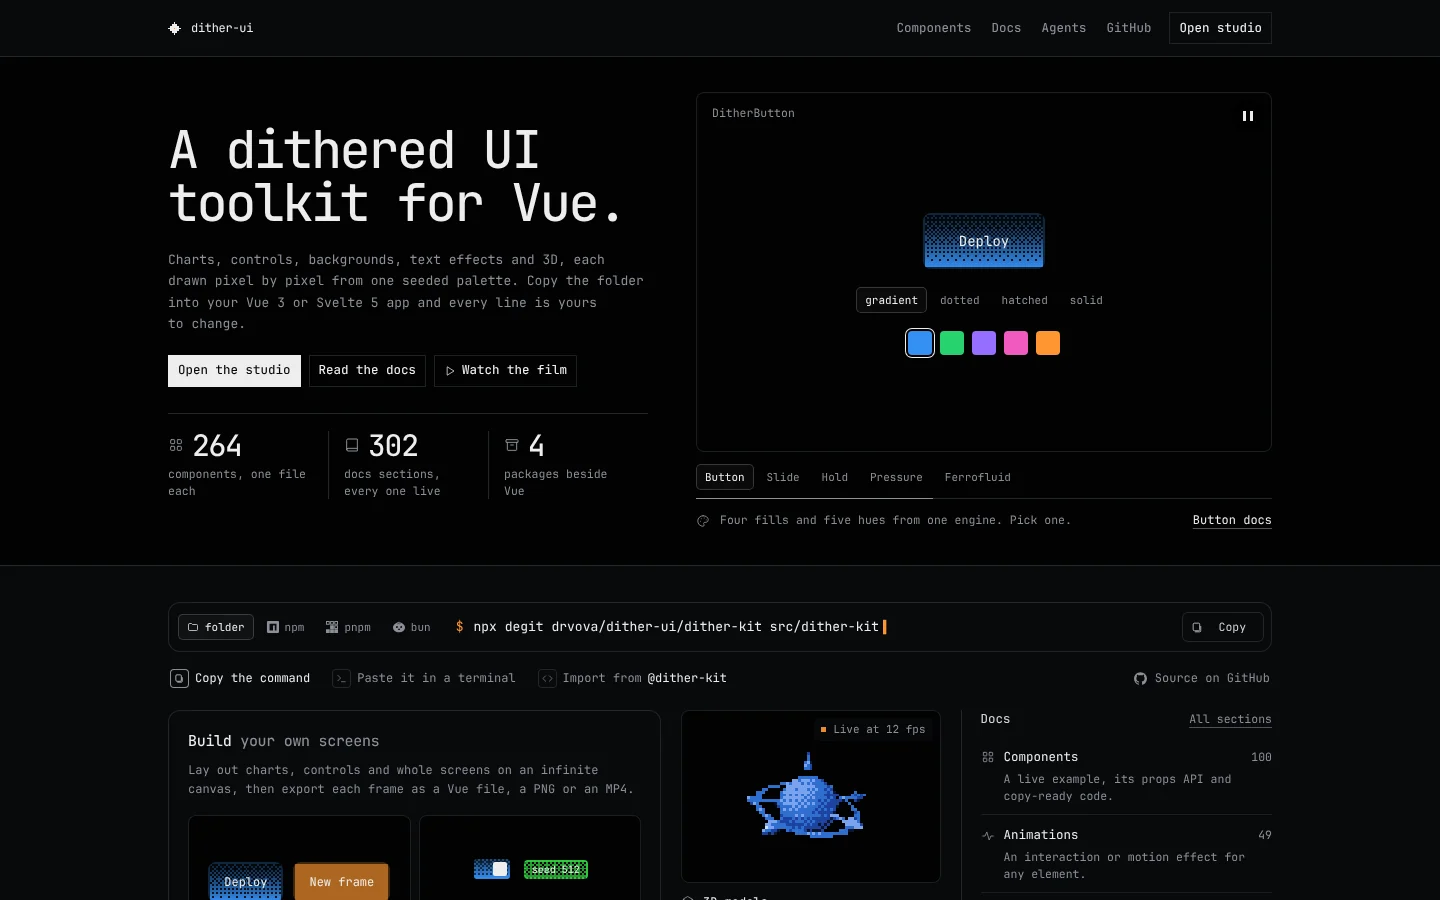
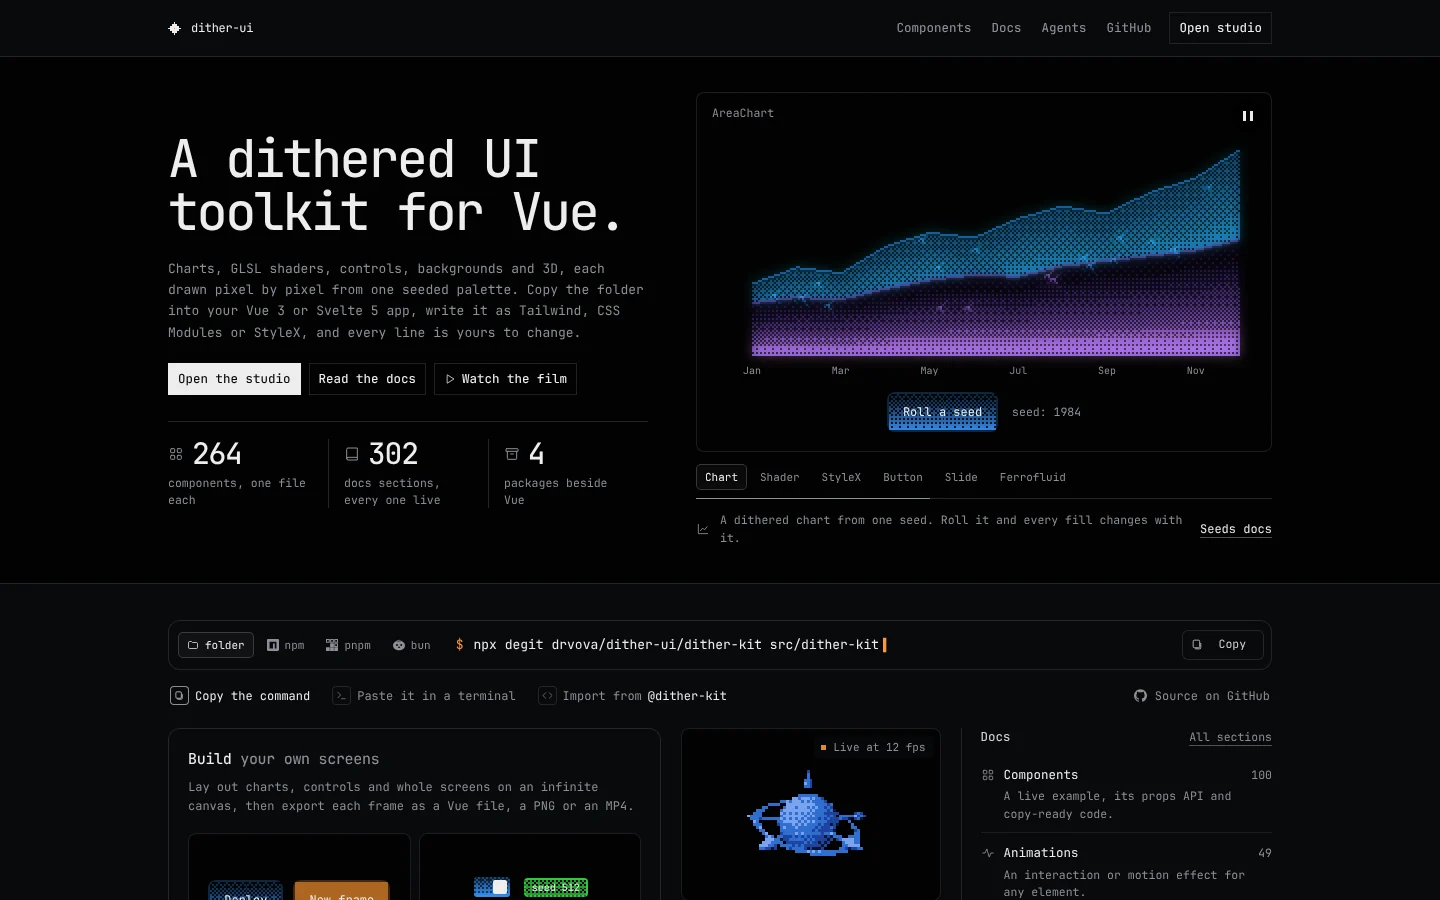
Landing: the hero leads with dithered charts, shaders and StyleX
The stage's tour opens on what nothing else does: an AreaChart reseeded by
"Roll a seed", the kit's sample DitherShader (mono, a ramp or its own
colours, "New shader" the next seed) and one snippet rendered live beside
its code, written as StyleX, CSS Modules, CSS or Tailwind by the restyle
translator the docs and the Studio use. Then the button, the slide and the
ferrofluid. The shader, the export and the fluid load as their own chunks.
The lede names shaders and StyleX.

Claude-Session: https://claude.ai/code/session_01VFJHAFjKoL8rvfjAbQNhSD

diff --git a/src/pages/landing/HeroStage.vue b/src/pages/landing/HeroStage.vue
@@ -1,7 +1,9 @@
 <script setup lang="ts">
 // The hero's stage: the kit by hand, one real component at a time, the way
 // the film shows it (each framed alone in a docs-style well, its name in the
-// corner, the controls its docs demo has). The picker under the well
+// corner, the controls its docs demo has), leading with what nothing else
+// does: a dithered chart, a GLSL shader, one snippet written as StyleX.
+// The picker under the well
 // chooses a scene and the tour moves on by itself: a CSS animation on the
 // progress rule whose end advances it (no timer), paused while the stage is
 // hovered or holds focus. The chip pauses it; using a scene or picking one
@@ -10,12 +12,13 @@
 // first one is simply there, and it is the only one in the static page.
 import { defineAsyncComponent, onMounted, reactive, ref } from "vue"
 import {
+  Area,
+  AreaChart,
   DitherButton,
-  DitherHoldAction,
   DitherIcon,
   DitherReveal,
   DitherSlideAction,
-  DitherTextPressure,
+  XAxis,
   cssColor,
   type ButtonVariant,
   type DitherColor,
@@ -24,12 +27,42 @@ import {
 import { routePath } from "@/shared/lib"
 import PauseChip from "./PauseChip.vue"
 
-// The fluid's canvas engine is the heaviest scene: its own chunk, fetched
-// when the scene is first picked.
+// The heavy scenes are their own chunks, fetched when first shown: the
+// shader's WebGL engine, the code translator's utility map, the fluid's
+// canvas engine.
+const DitherShader = defineAsyncComponent(() => import("@dither-kit/DitherShader.vue"))
+const ExportScene = defineAsyncComponent(() => import("./ExportScene.vue"))
 const DitherFerrofluid = defineAsyncComponent(() => import("@dither-kit/Ferrofluid.vue"))
 
 type Scene = { id: string; short: string; name: string; icon: IconName; line: string; docs: string; link: string }
 const SCENES: Scene[] = [
+  {
+    id: "chart",
+    short: "Chart",
+    name: "AreaChart",
+    icon: "ChartLine",
+    line: "A dithered chart from one seed. Roll it and every fill changes with it.",
+    docs: "/docs/seeds",
+    link: "Seeds docs",
+  },
+  {
+    id: "shader",
+    short: "Shader",
+    name: "DitherShader",
+    icon: "Sparkles",
+    line: "Real GLSL on your GPU, read back and dithered on the kit's cells.",
+    docs: "/docs/shader",
+    link: "Shader docs",
+  },
+  {
+    id: "export",
+    short: "StyleX",
+    name: "Code export",
+    icon: "Code",
+    line: "One snippet, written as StyleX, CSS Modules, CSS or Tailwind from the same look.",
+    docs: "/docs/styling",
+    link: "Styling docs",
+  },
   {
     id: "button",
     short: "Button",
@@ -47,24 +80,6 @@ const SCENES: Scene[] = [
     line: "Drag the thumb to the end, or focus it and press Enter.",
     docs: "/docs/slide-action",
     link: "Slide action docs",
-  },
-  {
-    id: "hold",
-    short: "Hold",
-    name: "DitherHoldAction",
-    icon: "Clock",
-    line: "Hold to finish. Let go early and the fill drains back.",
-    docs: "/docs/hold-action",
-    link: "Hold action docs",
-  },
-  {
-    id: "pressure",
-    short: "Pressure",
-    name: "DitherTextPressure",
-    icon: "Type",
-    line: "Each letter swells as the cursor comes near.",
-    docs: "/docs/text-pressure",
-    link: "Text pressure docs",
   },
   {
     id: "ferrofluid",
@@ -101,11 +116,27 @@ onMounted(() => {
 })
 
 // Each scene's own state, as in its docs demo.
+const MONTHS = ["Jan", "Feb", "Mar", "Apr", "May", "Jun", "Jul", "Aug", "Sep", "Oct", "Nov", "Dec"]
+const REVENUE = [42, 51, 48, 63, 71, 68, 79, 86, 82, 94, 102, 118]
+const EXPENSES = [31, 34, 33, 39, 44, 47, 46, 52, 55, 58, 61, 67]
+const ROWS = MONTHS.map((month, i) => ({ month, revenue: REVENUE[i], expenses: EXPENSES[i] }))
+const CHART = {
+  revenue: { label: "Revenue", color: "blue" as DitherColor },
+  expenses: { label: "Expenses", color: "purple" as DitherColor },
+}
+const seed = ref(1984)
+const roll = () => (seed.value = Math.floor(Math.random() * 1_000_000))
+// The shader: the kit's seeded sample (every seed is a different GLSL
+// program), 1-bit in the kit's blue, on a palette ramp, or in its own colours.
+const MODES = ["mono", "ramp", "colour"] as const
+type Mode = (typeof MODES)[number]
+const mode = ref<Mode>("mono")
+const program = ref(3)
+const RAMP: DitherColor[] = ["blue", "purple", "pink", "orange"]
 const VARIANTS: ButtonVariant[] = ["gradient", "dotted", "hatched", "solid"]
 const COLORS: DitherColor[] = ["blue", "green", "purple", "pink", "orange"]
 const btn = reactive({ variant: "gradient" as ButtonVariant, color: "blue" as DitherColor })
 const deploys = ref(0)
-const holds = ref(0)
 const FLUIDS = {
   acid: ["#27FF64", "#7CFF67", "#A8FFB6"],
   ice: ["#3DA5FF", "#7CE0FF", "#CFF6FF"],
@@ -128,7 +159,41 @@ const fluid = ref<Fluid>("acid")
         @keydown.stop
       />
       <DitherReveal :key="at" :progress="moved ? undefined : 1" :duration="0.6" :cell="6" class="scene-wrap">
-        <div v-if="SCENES[at].id === 'button'" class="scene">
+        <div v-if="SCENES[at].id === 'chart'" class="scene scene-chart">
+          <div class="chart">
+            <AreaChart :key="seed" :data="ROWS" :config="CHART" :seed="seed" class="h-full">
+              <XAxis data-key="month" :max-ticks="6" />
+              <Area data-key="expenses" :variant="seed + 1" />
+              <Area data-key="revenue" :variant="seed" />
+            </AreaChart>
+          </div>
+          <div class="row">
+            <DitherButton color="blue" variant="gradient" @click="roll">Roll a seed</DitherButton>
+            <span class="count">seed: {{ seed }}</span>
+          </div>
+        </div>
+        <div v-else-if="SCENES[at].id === 'shader'" class="scene scene-fill">
+          <DitherShader
+            :seed="program"
+            :mono="mode === 'mono'"
+            :colors="mode === 'ramp' ? RAMP : undefined"
+            color="blue"
+            :cell="4"
+            interactive
+            :label="`The kit's sample shader, seed ${program}`"
+            class="fluid"
+          />
+          <div class="fluid-pick">
+            <div class="seg" role="group" aria-label="Output">
+              <button v-for="m in MODES" :key="m" type="button" :aria-pressed="mode === m" @click="mode = m">
+                {{ m }}
+              </button>
+            </div>
+            <button type="button" class="new-program" @click="program++">New shader</button>
+          </div>
+        </div>
+        <ExportScene v-else-if="SCENES[at].id === 'export'" />
+        <div v-else-if="SCENES[at].id === 'button'" class="scene">
           <DitherButton :color="btn.color" :variant="btn.variant" class="min-h-14 px-9 text-sm">Deploy</DitherButton>
           <div class="seg" role="group" aria-label="Fill">
             <button
@@ -157,25 +222,6 @@ const fluid = ref<Fluid>("acid")
         <div v-else-if="SCENES[at].id === 'slide'" class="scene">
           <DitherSlideAction label="Slide to deploy" color="green" class="w-80" @confirm="deploys++" />
           <p class="count">deploys: {{ deploys }}</p>
-        </div>
-        <div v-else-if="SCENES[at].id === 'hold'" class="scene">
-          <div class="holds">
-            <DitherHoldAction color="orange" class="px-6 py-4 text-[13px]" @complete="holds++"
-              >Hold to purge cache</DitherHoldAction
-            >
-            <DitherHoldAction
-              direction="horizontal"
-              color="blue"
-              :duration="900"
-              class="px-6 py-4 text-[13px]"
-              @complete="holds++"
-              >Hold to archive</DitherHoldAction
-            >
-          </div>
-          <p class="count">completed: {{ holds }}</p>
-        </div>
-        <div v-else-if="SCENES[at].id === 'pressure'" class="scene">
-          <DitherTextPressure text="dither-ui" class="pressure" />
         </div>
         <div v-else class="scene scene-fill">
           <DitherFerrofluid :colors="[...FLUIDS[fluid]]" class="fluid" />
@@ -274,13 +320,6 @@ const fluid = ref<Fluid>("acid")
     0 0 0 3px var(--ink);
 }
 
-.holds {
-  display: flex;
-  flex-wrap: wrap;
-  justify-content: center;
-  gap: 14px;
-}
-
 .count {
   margin: 0;
   font-size: 11.5px;
@@ -288,12 +327,22 @@ const fluid = ref<Fluid>("acid")
   color: var(--ink-3);
 }
 
-.pressure {
-  font-size: min(14cqw, 6.5rem);
-  font-weight: 500;
-  line-height: 1;
-  letter-spacing: -0.04em;
-  color: var(--ink);
+/* The chart takes the well above its roll. */
+.scene-chart {
+  align-items: stretch;
+  gap: 12px;
+}
+
+.chart {
+  flex: 1;
+  min-height: 0;
+}
+
+.row {
+  display: flex;
+  align-items: center;
+  justify-content: center;
+  gap: 14px;
 }
 
 /* The fluid fills the well; its palette sits on a strip of the well's
@@ -311,9 +360,25 @@ const fluid = ref<Fluid>("acid")
   position: absolute;
   bottom: 10px;
   left: 10px;
+  display: flex;
+  align-items: center;
+  gap: 4px;
   padding: 3px;
   border-radius: 7px;
   background: var(--well);
+}
+
+.new-program {
+  height: 26px;
+  padding: 0 9px;
+  border-radius: 5px;
+  font-size: 11px;
+  color: var(--ink);
+  box-shadow: inset 0 0 0 1px var(--line);
+}
+
+.new-program:hover {
+  background: color-mix(in oklab, var(--foreground) 6%, transparent);
 }
 
 /* The picker, and under it the tour's progress: a hairline that fills over

diff --git a/src/pages/landing/ExportScene.vue b/src/pages/landing/ExportScene.vue
@@ -1,0 +1,86 @@
+<script setup lang="ts">
+// The stage's export scene: one snippet of kit components, rendered live
+// on the left and written on the right in the picked styling system by the
+// translator the docs and the Studio's export use (`restyle`), StyleX
+// first. Its own chunk: the translator carries the compiled utility map.
+import { computed, ref } from "vue"
+import { DitherButton, DitherHeading } from "@dither-kit"
+import { STYLINGS, STYLING_LABELS, restyle, type Styling } from "@/shared/lib/restyle"
+
+// The snippet is the live card's own markup, so what is shown is what runs.
+const SNIPPET = `<div class="flex flex-col gap-3 rounded-lg border border-border p-4">
+  <DitherHeading level="4">Deploys</DitherHeading>
+  <p class="text-xs text-muted-foreground">16 this week, none rolled back.</p>
+  <DitherButton color="blue" class="w-full">Deploy now</DitherButton>
+</div>`
+const system = ref<Styling>("stylex")
+const code = computed(() => restyle(SNIPPET, system.value))
+</script>
+
+<template>
+  <div class="export">
+    <div class="export-live">
+      <div class="flex flex-col gap-3 rounded-lg border border-border p-4">
+        <DitherHeading level="4">Deploys</DitherHeading>
+        <p class="text-xs text-muted-foreground">16 this week, none rolled back.</p>
+        <DitherButton color="blue" class="w-full">Deploy now</DitherButton>
+      </div>
+    </div>
+    <div class="export-side">
+      <div class="seg" role="group" aria-label="Styling system">
+        <button v-for="s in STYLINGS" :key="s" type="button" :aria-pressed="system === s" @click="system = s">
+          {{ STYLING_LABELS[s] }}
+        </button>
+      </div>
+      <pre class="export-code" tabindex="0" aria-label="The card's code"><code>{{ code }}</code></pre>
+    </div>
+  </div>
+</template>
+
+<style scoped>
+/* The card on the left, its code on the right; stacked in a narrow well. */
+.export {
+  position: absolute;
+  inset: 0;
+  display: grid;
+  grid-template-columns: minmax(0, 0.8fr) minmax(0, 1.2fr);
+  gap: 16px;
+  padding: 44px 16px 16px;
+}
+
+.export-live {
+  display: grid;
+  align-content: center;
+}
+
+.export-side {
+  display: flex;
+  flex-direction: column;
+  gap: 8px;
+  min-height: 0;
+}
+
+.export-code {
+  flex: 1;
+  min-height: 0;
+  margin: 0;
+  padding: 10px 12px;
+  overflow: auto;
+  border-radius: 6px;
+  font-size: 10.5px;
+  line-height: 1.55;
+  color: var(--ink-2);
+  background: var(--background);
+  box-shadow: inset 0 0 0 1px var(--line);
+}
+
+@container (max-width: 30rem) {
+  .export {
+    grid-template-columns: minmax(0, 1fr);
+    grid-template-rows: auto minmax(0, 1fr);
+  }
+  .export-live {
+    display: none;
+  }
+}
+</style>

diff --git a/src/pages/landing/Showcase.vue b/src/pages/landing/Showcase.vue
@@ -100,8 +100,9 @@ const HANDBOOK: { label: string; icon: IconName; note: string; href: string }[] 
         <div class="statement">
           <h1 id="hero-h" class="display hero-h">A dithered UI toolkit for Vue.</h1>
           <p class="hero-lede">
-            Charts, controls, backgrounds, text effects and 3D, each drawn pixel by pixel from one seeded palette. Copy
-            the folder into your Vue 3 or Svelte 5 app and every line is yours to change.
+            Charts, GLSL shaders, controls, backgrounds and 3D, each drawn pixel by pixel from one seeded palette. Copy
+            the folder into your Vue 3 or Svelte 5 app, write it as Tailwind, CSS Modules or StyleX, and every line is
+            yours to change.
           </p>
           <div class="hero-keys">
             <a :href="routePath('/studio')" class="nav-a nav-pill key-primary">Open the studio</a>

diff --git a/src/pages/AGENTS.md b/src/pages/AGENTS.md
@@ -75,9 +75,15 @@ widgets/features; page-specific conventions live here.
   `HeroStage.vue`, the kit by hand as the trailer shows it: one real
   component at a time in an 8:5 `.thumb` well (a size container), its
   name top left on a chip of the well's ground, with the controls its
-  docs demo has (`SCENES`: button with its fills and five hues, slide
-  action, hold actions, text pressure, ferrofluid with its palettes; the
-  fluid's engine an async chunk). Under the well a `.seg` picker and the
+  docs demo has. `SCENES` lead with what nothing else does (the user's
+  call: dithered charts, shaders, StyleX): an `AreaChart` from one seed
+  with "Roll a seed"; the kit's seeded sample `DitherShader` (mono blue,
+  a palette ramp or its own colours; "New shader" is the next seed);
+  "StyleX", `ExportScene.vue`: one snippet rendered live beside its code
+  in the picked system through `restyle` (StyleX first); then the button
+  with its fills and five hues, the slide action and the ferrofluid with
+  its palettes. The shader, the export (the translator's utility map) and
+  the fluid are async chunks. Under the well a `.seg` picker and the
   tour's progress hairline, then a caption (the scene's glyph, one line,
   a `.lead` to its docs section). The tour advances on the progress
   rule's CSS `animationend` (6s, no timer), paused while the stage is

diff --git a/README.md b/README.md
@@ -108,9 +108,11 @@ dark under `.dark`), from CSS or with `applyTheme()` from JS.
 ### Landing
 
 A full-bleed hero: the statement, the keys and the kit's numbers beside a
-stage that tours real components (a button, a slide, a hold, text pressure and
-a ferrofluid), each one live with the controls its docs demo has. "Watch the
-film" opens the trailer. Everything else on the page is the kit too:
+stage that tours real components, each one live with the controls its docs
+demo has: a dithered chart you reseed, a GLSL shader, one snippet written as
+StyleX, CSS Modules, CSS or Tailwind beside the card it renders, a button, a
+slide and a ferrofluid. "Watch the film" opens the trailer. Everything else on
+the page is the kit too:
 
 - the install bar, under the marks of npm, pnpm and Bun;
 - live kit panels: buttons, controls, a 3D model, a chart and a keyframed stage;
